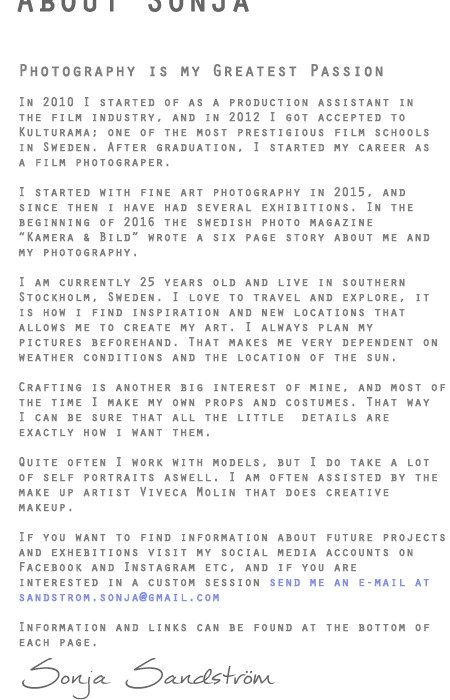
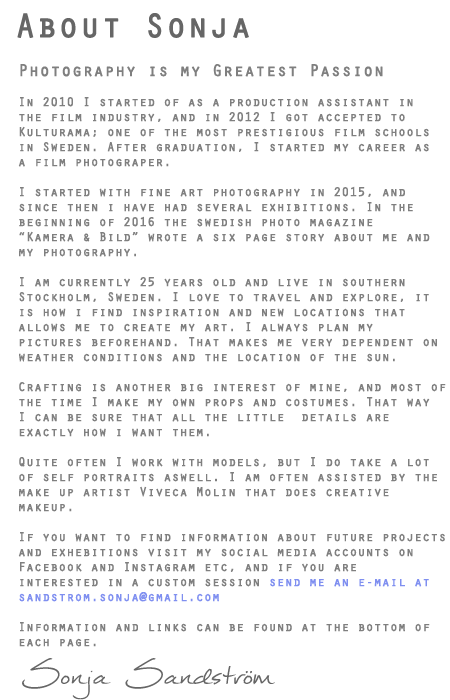
now
now

Changed region(s): [[0.3111, 0.0, 0.56, 0.06], [0.0311, 0.0, 0.28, 0.06]]

diff --git a/about.html b/about.html
@@ -114,19 +114,18 @@
 	top: 0px;
 }
 #about {
-	position:absolute;
+	position: absolute;
 	width: 450px;
 	height: 700px;
-    left: 0px;
+	left: 0px;
 	top: 0px;
-
 }
 #line1 {
 	position: absolute;
 	width: 1400px;
-	height: 40px;
-    top: 310px;
-    left: 125px;
+	height: 19px;
+	top: 310px;
+	left: 125px;
 }
 #line4 {
 	position: absolute;
@@ -136,6 +135,13 @@
     left: 400px;
 
 
+}
+#email {
+	position: absolute;
+	width: 400px;
+	height: 60px;
+    top: -80px;
+    left: 80px;
 }
 -->
 </style>
@@ -191,6 +197,7 @@ function MM_swapImage() { //v3.0
 <div id="line2"><img src="images/line2.PNG"></a></div>
 <div id="line3"><a href="https://www.facebook.com/Moquist-Webdesign-555905961270723/"><img src="images/line3.PNG"></a></div>
 <div id="line4"><a href="mailto:sandstrom.sonja@gmail.com"><img src="images/line4.PNG"></a></div>
+<div id="email"><a href="mailto:sandstrom.sonja@gmail.com"><img src="images/fill.PNG"></a></div>
 </div>
 
 </body>
